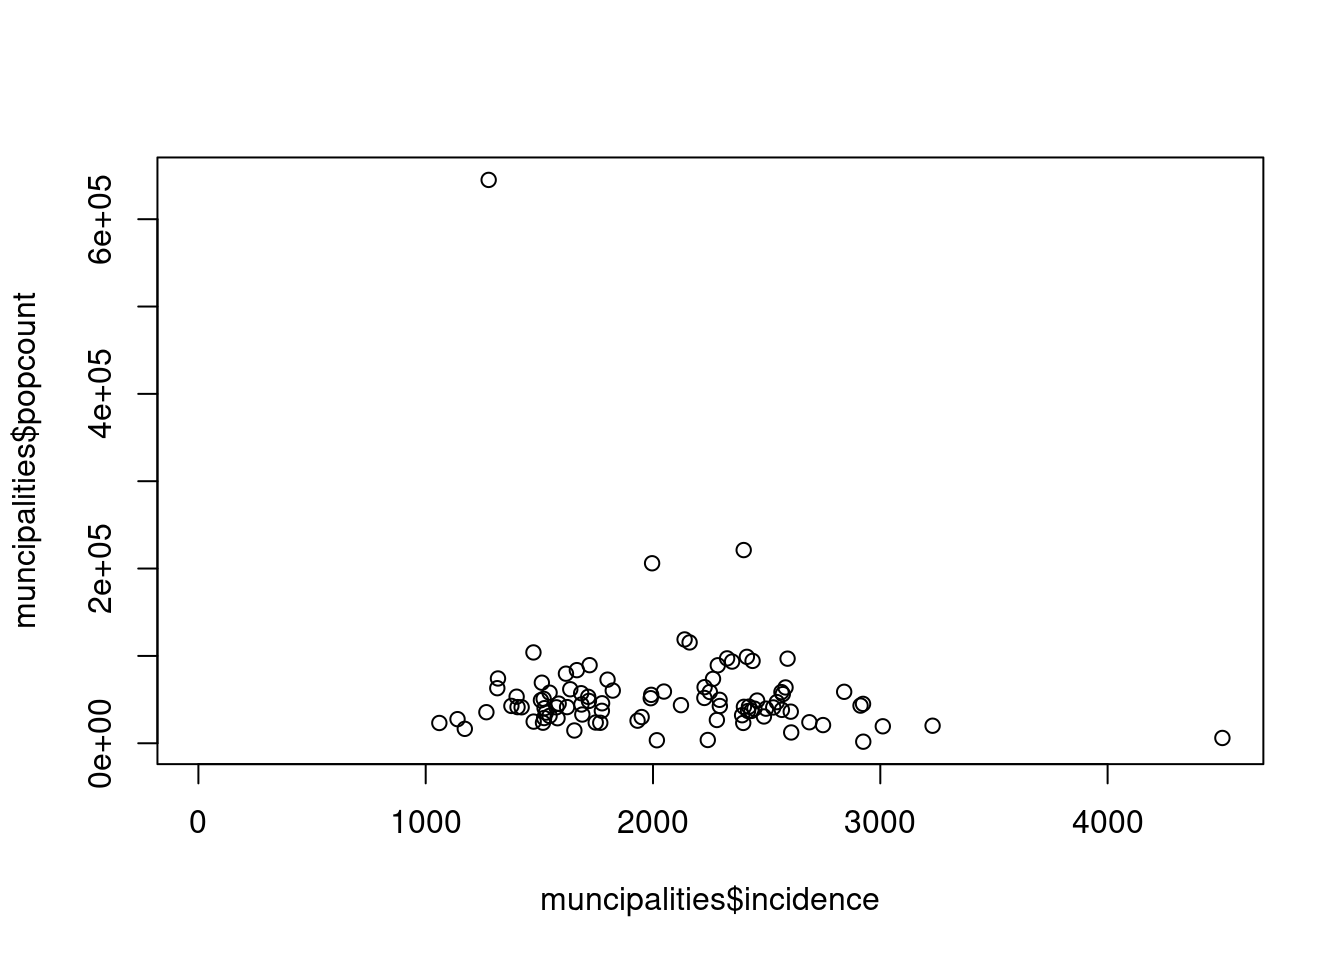
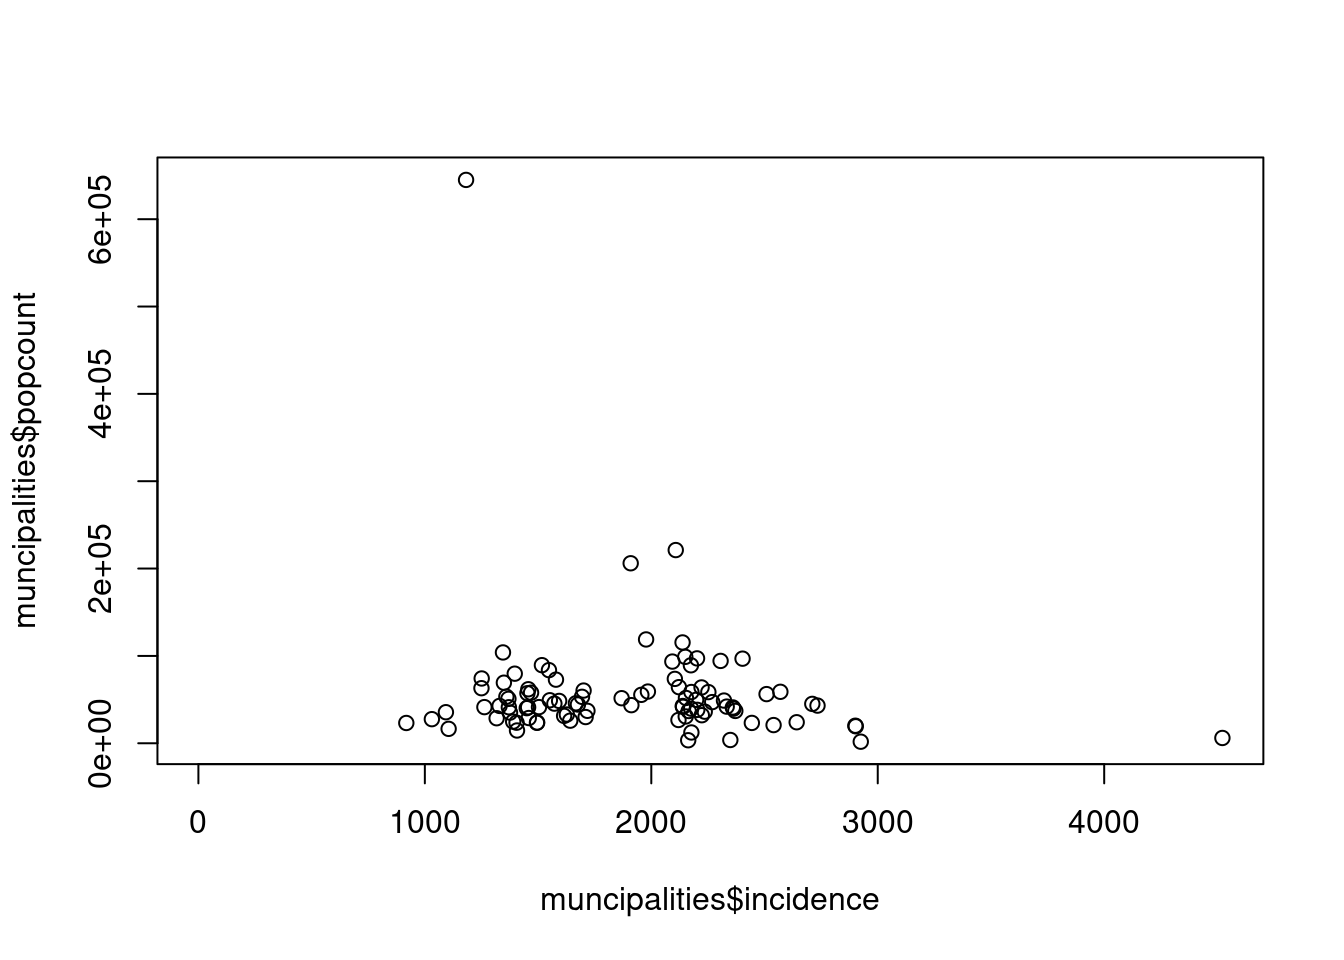
2022-03-09

diff --git a/docs/index.html b/docs/index.html
@@ -10,7 +10,7 @@
 
 
 
-<meta name="date" content="2022-03-07" />
+<meta name="date" content="2022-03-09" />
 
 <title>Covid-19 Stats for Denmark</title>
 
@@ -261,7 +261,7 @@ $(document).ready(function () {
 
 
 <h1 class="title toc-ignore">Covid-19 Stats for Denmark</h1>
-<h4 class="date">2022-03-07</h4>
+<h4 class="date">2022-03-09</h4>
 
 </div>
 
@@ -308,7 +308,7 @@ $(document).ready(function () {
 <pre class="r"><code>library(tidyverse)
 library(lubridate)</code></pre>
 <p>SSI’s data is in a zip file. We unpack this zip file into a directory of the general form <code>YYYY-MM-DD</code>. Lets set up a name for the current directory we want to grab data from</p>
-<pre class="r"><code>date &lt;- &quot;2022-03-07&quot;</code></pre>
+<pre class="r"><code>date &lt;- &quot;2022-03-09&quot;</code></pre>
 </div>
 <div id="ingesting-data" class="section level2">
 <h2>Ingesting data</h2>
@@ -350,7 +350,7 @@ library(lubridate)</code></pre>
                                       ))</code></pre>
 <pre><code>## ℹ Using &quot;&#39;,&#39;&quot; as decimal and &quot;&#39;.&#39;&quot; as grouping mark. Use `read_delim()` for more control.</code></pre>
 <pre class="r"><code>data</code></pre>
-<pre><code>## # A tibble: 7,050 × 9
+<pre><code>## # A tibble: 7,072 × 9
 ##    Region      Prøvetagningsdato Køn   `Bekræftede tilfælde…`  Døde Indlæggelser
 ##    &lt;fct&gt;       &lt;date&gt;            &lt;fct&gt;                  &lt;dbl&gt; &lt;dbl&gt;        &lt;dbl&gt;
 ##  1 Sjælland    2020-02-26        M                          1     0            0
@@ -363,7 +363,7 @@ library(lubridate)</code></pre>
 ##  8 Hovedstaden 2020-03-03        F                          1     0            0
 ##  9 Hovedstaden 2020-03-03        M                          3     0            1
 ## 10 Hovedstaden 2020-03-04        M                          2     0            0
-## # … with 7,040 more rows, and 3 more variables: `Kummuleret antal døde` &lt;dbl&gt;,
+## # … with 7,062 more rows, and 3 more variables: `Kummuleret antal døde` &lt;dbl&gt;,
 ## #   `Kummuleret antal bekræftede tilfælde` &lt;dbl&gt;,
 ## #   `Kummuleret antal indlæggelser` &lt;dbl&gt;</code></pre>
 <p>We certainly don’t want to work with danish-named columns. Rather, we want small descriptive names which are easy to type. We send our dataset through a <code>rename</code> pass for this.</p>
@@ -378,7 +378,7 @@ library(lubridate)</code></pre>
 # Cut the cumulative columns away
 data &lt;- data %&gt;% select(region, date, gender, cases, deaths, hospitalizations)
 data</code></pre>
-<pre><code>## # A tibble: 7,050 × 6
+<pre><code>## # A tibble: 7,072 × 6
 ##    region      date       gender cases deaths hospitalizations
 ##    &lt;fct&gt;       &lt;date&gt;     &lt;fct&gt;  &lt;dbl&gt;  &lt;dbl&gt;            &lt;dbl&gt;
 ##  1 Sjælland    2020-02-26 M          1      0                0
@@ -391,7 +391,7 @@ data</code></pre>
 ##  8 Hovedstaden 2020-03-03 F          1      0                0
 ##  9 Hovedstaden 2020-03-03 M          3      0                1
 ## 10 Hovedstaden 2020-03-04 M          2      0                0
-## # … with 7,040 more rows</code></pre>
+## # … with 7,062 more rows</code></pre>
 <p>Provide a low cut-off. We are interested in the recent period with Omicron, rather than the full duration of Covid-19.</p>
 <pre class="r"><code>lo_cutoff &lt;- &#39;2021-09-01&#39;</code></pre>
 <p>The high end of that cutoff, we set to two days before the maximal date in our data set</p>
@@ -405,7 +405,7 @@ data</code></pre>
 # Put this into the summary
 summary &lt;- data
 summary</code></pre>
-<pre><code>## # A tibble: 1,850 × 6
+<pre><code>## # A tibble: 1,870 × 6
 ##    region      date       gender cases deaths hospitalizations
 ##    &lt;fct&gt;       &lt;date&gt;     &lt;fct&gt;  &lt;dbl&gt;  &lt;dbl&gt;            &lt;dbl&gt;
 ##  1 Hovedstaden 2021-09-01 F        215      0                7
@@ -418,7 +418,7 @@ summary</code></pre>
 ##  8 Nordjylland 2021-09-01 M         16      1                2
 ##  9 Sjælland    2021-09-01 M         39      0                3
 ## 10 Syddanmark  2021-09-01 M         41      0                1
-## # … with 1,840 more rows</code></pre>
+## # … with 1,860 more rows</code></pre>
 </div>
 <div id="weekly-key-figures-split-by-age" class="section level3">
 <h3>Weekly key figures split by age</h3>
@@ -508,16 +508,16 @@ data</code></pre>
 <pre><code>## # A tibble: 99 × 11
 ##     lau1 name       `Bekræftede ti…` Incidens cases incidence tested tested_100k
 ##    &lt;dbl&gt; &lt;fct&gt;                 &lt;dbl&gt;    &lt;dbl&gt; &lt;dbl&gt;     &lt;dbl&gt;  &lt;dbl&gt;       &lt;dbl&gt;
-##  1   411 &quot;&quot;                        0       NA     0         0     92      101000
-##  2   101 &quot;Københav…           353261    55050  8193      1277 658429      103000
-##  3   147 &quot;Frederik…            54358    52636  1522      1474 112476      109000
-##  4   151 &quot;Ballerup&quot;            26149    53055   743      1507  50223      102000
-##  5   153 &quot;Brøndby&quot;             19988    56011   452      1267  36291      102000
-##  6   155 &quot;Dragør&quot;               7603    52175   241      1654  14590      100000
-##  7   157 &quot;Gentofte&quot;            37360    50514   975      1318  76282      103000
-##  8   159 &quot;Gladsaxe&quot;            36907    53359  1045      1511  72334      105000
-##  9   161 &quot;Glostrup&quot;            12576    53695   355      1516  24474      104000
-## 10   163 &quot;Herlev&quot;              16112    55968   438      1521  29871      104000
+##  1   411 &quot;&quot;                        0       NA     0         0     93      102000
+##  2   101 &quot;Københav…           355770    55441  7586      1182 658697      103000
+##  3   147 &quot;Frederik…            54786    53051  1389      1345 112538      109000
+##  4   151 &quot;Ballerup&quot;            26356    53475   765      1552  50241      102000
+##  5   153 &quot;Brøndby&quot;             20083    56277   390      1093  36307      102000
+##  6   155 &quot;Dragør&quot;               7636    52402   205      1407  14594      100000
+##  7   157 &quot;Gentofte&quot;            37682    50949   925      1251  76324      103000
+##  8   159 &quot;Gladsaxe&quot;            37219    53810   933      1349  72360      105000
+##  9   161 &quot;Glostrup&quot;            12650    54011   329      1405  24480      105000
+## 10   163 &quot;Herlev&quot;              16284    56565   420      1459  29886      104000
 ## # … with 89 more rows, and 3 more variables: tested_1w &lt;dbl&gt;,
 ## #   tested_100k_1w &lt;dbl&gt;, population &lt;dbl&gt;</code></pre>
 <pre class="r"><code>muncipalities &lt;- data</code></pre>
@@ -699,21 +699,21 @@ muncipalities$incidence_type &lt;- ifelse(muncipalities$incidence_z &lt; 0, &quo
 muncipalities$rate_z &lt;- round(muncipalities$rate - mean(muncipalities$rate), 5)
 muncipalities$rate_type &lt;- ifelse(muncipalities$rate_z &lt; 0, &quot;Below mean&quot;, &quot;Above mean&quot;)
 muncipalities$rate</code></pre>
-<pre><code>##  [1] 0.0000000 0.2558394 0.2843797 0.2482459 0.2389006 0.2789352 0.2514183
-##  [8] 0.2561902 0.2519517 0.2393443 0.2320769 0.2470080 0.2271415 0.2921311
-## [15] 0.2491409 0.1924883 0.2350821 0.2233796 0.2788181 0.2832009 0.2522639
-## [22] 0.2422196 0.2375000 0.2594440 0.3004372 0.2735918 0.2891738 0.2611789
-## [29] 0.2764496 0.2487127 0.2940390 0.2946176 0.2632221 0.2785894 0.2991785
-## [36] 0.2846021 0.3304105 0.2826316 0.2766186 0.3127355 0.3144857 0.2741641
-## [43] 0.2121424 0.2620301 0.2561289 0.2681376 0.2862119 0.3215947 0.3754539
-## [50] 0.3389183 0.3471475 0.2942079 0.2776463 0.2727683 0.3206861 0.3447905
-## [57] 0.3707250 0.3026135 0.3201685 0.2783436 0.3296255 0.3360744 0.2851240
-## [64] 0.3778664 0.3876092 0.2922668 0.2813960 0.3832724 0.3405179 0.3250798
-## [71] 0.3610275 0.3548616 0.4040194 0.3747535 0.3526276 0.3666803 0.3525961
-## [78] 0.3297935 0.3860841 0.3515819 0.4414894 0.3628543 0.3441631 0.3654401
-## [85] 0.3836344 0.3757443 0.3836590 0.3951952 0.3569599 0.3804678 0.3625192
-## [92] 0.3643901 0.3535354 0.2722513 0.4037037 0.3718331 0.3596620 0.3451714
-## [99] 0.3689516</code></pre>
+<pre><code>##  [1] 0.0000000 0.2431410 0.2662960 0.2562814 0.2118414 0.2408931 0.2424004
+##  [8] 0.2399691 0.2419118 0.2339833 0.2153146 0.2422819 0.2101248 0.2819574
+## [15] 0.2297535 0.1737357 0.2315231 0.2216809 0.2768613 0.2480983 0.2457516
+## [22] 0.2423493 0.2427917 0.2458781 0.2661109 0.2723280 0.2789165 0.2579807
+## [29] 0.2728380 0.2583120 0.2823554 0.2818686 0.2587624 0.2888889 0.2856433
+## [36] 0.2841213 0.3377251 0.2871581 0.2655989 0.2832930 0.3118149 0.2470434
+## [43] 0.2126331 0.2597715 0.2480620 0.2756883 0.2716157 0.2974093 0.3652536
+## [50] 0.3397319 0.3485432 0.2841770 0.2766617 0.2819712 0.3230016 0.3388116
+## [57] 0.3756906 0.3109703 0.3181306 0.2654670 0.3146245 0.3369313 0.2901961
+## [64] 0.3732877 0.3793247 0.2859704 0.2718282 0.3794604 0.3258988 0.3214530
+## [71] 0.3647988 0.3395205 0.4132353 0.3636991 0.3373786 0.3740915 0.3484802
+## [78] 0.3394878 0.3638542 0.3476993 0.4806630 0.3614713 0.3333511 0.3647235
+## [85] 0.3851832 0.3589657 0.3735558 0.3729746 0.3637206 0.3694338 0.3477888
+## [92] 0.3491220 0.3310277 0.2722513 0.3771429 0.3591606 0.3523490 0.3307977
+## [99] 0.3544272</code></pre>
 <pre class="r"><code>ggplot(muncipalities %&gt;% mutate(name = fct_reorder(name, rate)), aes(x=name, y=rate)) +
   geom_bar(stat=&#39;identity&#39;, aes(fill=rate_type), width=.5)  +
   scale_colour_brewer(palette=&quot;Set2&quot;) +
@@ -773,15 +773,15 @@ popcount</code></pre>
 ##    name            incidence popcount
 ##    &lt;chr&gt;               &lt;dbl&gt;    &lt;dbl&gt;
 ##  1 &quot;&quot;                      0       NA
-##  2 &quot;København&quot;          1277   644987
-##  3 &quot;Frederiksberg&quot;      1474   103963
-##  4 &quot;Ballerup&quot;           1507    49228
-##  5 &quot;Brøndby&quot;            1267    35535
-##  6 &quot;Dragør&quot;             1654    14602
-##  7 &quot;Gentofte&quot;           1318    74154
-##  8 &quot;Gladsaxe&quot;           1511    69321
-##  9 &quot;Glostrup&quot;           1516    23519
-## 10 &quot;Herlev&quot;             1521    28861
+##  2 &quot;København&quot;          1182   644987
+##  3 &quot;Frederiksberg&quot;      1345   103963
+##  4 &quot;Ballerup&quot;           1552    49228
+##  5 &quot;Brøndby&quot;            1093    35535
+##  6 &quot;Dragør&quot;             1407    14602
+##  7 &quot;Gentofte&quot;           1251    74154
+##  8 &quot;Gladsaxe&quot;           1349    69321
+##  9 &quot;Glostrup&quot;           1405    23519
+## 10 &quot;Herlev&quot;             1459    28861
 ## # … with 89 more rows</code></pre>
 <p>Now, test correlation via Pearson:</p>
 <pre class="r"><code>plot(muncipalities$incidence, muncipalities$popcount)</code></pre>
@@ -791,13 +791,13 @@ popcount</code></pre>
 ##  Pearson&#39;s product-moment correlation
 ## 
 ## data:  muncipalities$incidence and muncipalities$popcount
-## t = -1.3953, df = 92, p-value = 0.1663
+## t = -1.4692, df = 92, p-value = 0.1452
 ## alternative hypothesis: true correlation is not equal to 0
 ## 95 percent confidence interval:
-##  -0.33674835  0.06042597
+##  -0.34349230  0.05282426
 ## sample estimates:
 ##        cor 
-## -0.1439535</code></pre>
+## -0.1514133</code></pre>
 <p>Clearly, this argues there are no strong connection between population count, and the incidence in a given muncipality.</p>
 <p>Analyzing the rate shows there’s a connection between it and incidence, but this is more expected:</p>
 <pre class="r"><code>pairs(muncipalities %&gt;% select(incidence,popcount,rate))</code></pre>
@@ -807,17 +807,17 @@ popcount</code></pre>
 ##  Pearson&#39;s product-moment correlation
 ## 
 ## data:  muncipalities$incidence and muncipalities$rate
-## t = 13.998, df = 97, p-value &lt; 2.2e-16
+## t = 13.109, df = 97, p-value &lt; 2.2e-16
 ## alternative hypothesis: true correlation is not equal to 0
 ## 95 percent confidence interval:
-##  0.7399093 0.8741370
+##  0.7149342 0.8610215
 ## sample estimates:
-##      cor 
-## 0.817859</code></pre>
+##       cor 
+## 0.7995065</code></pre>
 <p>Summarize:</p>
 <pre class="r"><code>summary(muncipalities$rate)</code></pre>
 <pre><code>##    Min. 1st Qu.  Median    Mean 3rd Qu.    Max. 
-##  0.0000  0.2657  0.2946  0.3063  0.3559  0.4415</code></pre>
+##  0.0000  0.2581  0.2860  0.2991  0.3485  0.4807</code></pre>
 <pre class="r"><code>d &lt;- density(muncipalities$rate)
 plot(d)</code></pre>
 <p><img src="index_files/figure-html/muncipality-summary-1.png" width="672" /></p>

diff --git a/docs/core.html b/docs/core.html
@@ -10,7 +10,7 @@
 
 
 
-<meta name="date" content="2022-03-07" />
+<meta name="date" content="2022-03-09" />
 
 <title>Core Covid-19 Stats for Denmark</title>
 
@@ -261,7 +261,7 @@ $(document).ready(function () {
 
 
 <h1 class="title toc-ignore">Core Covid-19 Stats for Denmark</h1>
-<h4 class="date">2022-03-07</h4>
+<h4 class="date">2022-03-09</h4>
 
 </div>
 
@@ -325,7 +325,7 @@ rt_cases</code></pre>
 <pre class="r"><code>m_cases_timeseries_path &lt;- sprintf(&quot;%s/Municipality_cases_time_series.csv&quot;, path)
 m_cases_timeseries &lt;- readr::read_csv2(m_cases_timeseries_path)
 m_cases_timeseries</code></pre>
-<pre><code>## # A tibble: 740 × 101
+<pre><code>## # A tibble: 742 × 101
 ##    SampleDate Roskilde Copenhagen Aarhus Frederiksberg Kalundborg Middelfart
 ##    &lt;date&gt;        &lt;dbl&gt;      &lt;dbl&gt;  &lt;dbl&gt;         &lt;dbl&gt;      &lt;dbl&gt;      &lt;dbl&gt;
 ##  1 2020-02-26        1          0      0             0          0          0
@@ -338,7 +338,7 @@ m_cases_timeseries</code></pre>
 ##  8 2020-03-05        0          2      0             2          0          0
 ##  9 2020-03-06        0          0      0             0          0          0
 ## 10 2020-03-07        0          1      1             1          0          0
-## # … with 730 more rows, and 94 more variables: Gentofte &lt;dbl&gt;, Solrød &lt;dbl&gt;,
+## # … with 732 more rows, and 94 more variables: Gentofte &lt;dbl&gt;, Solrød &lt;dbl&gt;,
 ## #   Allerød &lt;dbl&gt;, Dragør &lt;dbl&gt;, Helsingør &lt;dbl&gt;, Hillerød &lt;dbl&gt;,
 ## #   Rudersdal &lt;dbl&gt;, Næstved &lt;dbl&gt;, Aalborg &lt;dbl&gt;, Vallensbæk &lt;dbl&gt;,
 ## #   Esbjerg &lt;dbl&gt;, Favrskov &lt;dbl&gt;, Frederikssund &lt;dbl&gt;, Furesø &lt;dbl&gt;,
@@ -351,7 +351,7 @@ m_cases_timeseries</code></pre>
   rename(date = `SampleDate`)
 
 m_cases_timeseries</code></pre>
-<pre><code>## # A tibble: 74,000 × 3
+<pre><code>## # A tibble: 74,200 × 3
 ##    date       Municipality  Cases
 ##    &lt;date&gt;     &lt;chr&gt;         &lt;dbl&gt;
 ##  1 2020-02-26 Roskilde          1
@@ -364,7 +364,7 @@ m_cases_timeseries</code></pre>
 ##  8 2020-02-26 Solrød            0
 ##  9 2020-02-26 Allerød           0
 ## 10 2020-02-26 Dragør            0
-## # … with 73,990 more rows</code></pre>
+## # … with 74,190 more rows</code></pre>
 <p>We use the same strategy for the tests:</p>
 <pre class="r"><code>m_tested_timeseries_path &lt;- sprintf(&quot;%s/Municipality_tested_persons_time_series.csv&quot;, path)
 m_tested_timeseries &lt;- readr::read_csv2(m_tested_timeseries_path)
@@ -375,7 +375,7 @@ m_tested_timeseries &lt;- m_tested_timeseries %&gt;%
 <pre class="r"><code>municipality &lt;- m_cases_timeseries %&gt;% left_join(m_tested_timeseries, by = c(&quot;date&quot;, &quot;Municipality&quot;))
 municipality &lt;- municipality %&gt;% mutate(Municipality = factor(Municipality))
 municipality</code></pre>
-<pre><code>## # A tibble: 74,000 × 4
+<pre><code>## # A tibble: 74,200 × 4
 ##    date       Municipality  Cases Tested
 ##    &lt;date&gt;     &lt;fct&gt;         &lt;dbl&gt;  &lt;dbl&gt;
 ##  1 2020-02-26 Roskilde          1      3
@@ -388,7 +388,7 @@ municipality</code></pre>
 ##  8 2020-02-26 Solrød            0      0
 ##  9 2020-02-26 Allerød           0      0
 ## 10 2020-02-26 Dragør            0      0
-## # … with 73,990 more rows</code></pre>
+## # … with 74,190 more rows</code></pre>
 </div>
 </div>
 <div id="plots-of-interest" class="section level2">
